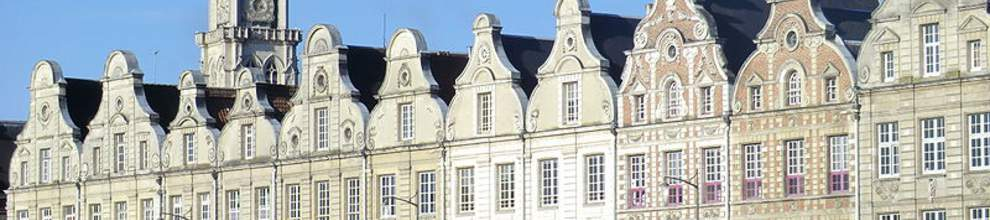
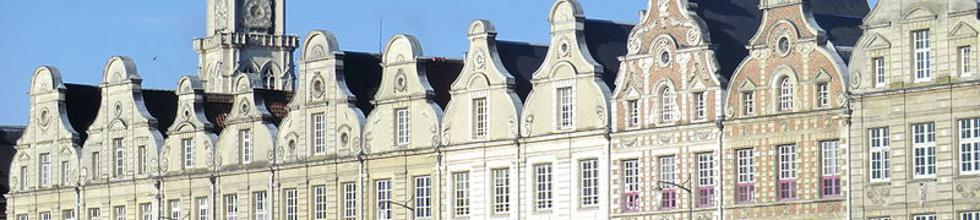
added accueil

diff --git a/view/style.css b/view/style.css
@@ -6,7 +6,7 @@ body {
     background:#04467e;
 }
 .mainWrapper{
-    width: 990px;
+    width: 980px;
     margin:auto;
     background:#f7f7f7;
     -moz-box-shadow: 1px 1px 4px 0px black;
@@ -34,8 +34,8 @@ nav li {
     margin:auto;
     padding:0;
 }
-#item1{background:#2797e8;}#item2{background:#f8d617;}#item3{background:#a4b819;}#item4, #s_item4 a{background:#ce7526;}{background:#ce7526;}#item5, #s_item5 a{background:#6f0006;}#item6, #s_item6 a{background:#955359;}
-#item1:hover{background:#5bade7;}#item2:hover{background:#f8de4d;}#item3:hover{background:#bfd241;}#item4:hover, #s_item4 a:hover{background:#e8964d;}#item5:hover, #s_item5 a:hover{background:#a90008;}#item6:hover, #s_item6 a:hover{background:#b0757a;}
+#item0{background:#2e115a;}#item1{background:#2797e8;}#item2{background:#f8d617;}#item3{background:#a4b819;}#item4, #s_item4 a{background:#ce7526;}{background:#ce7526;}#item5, #s_item5 a{background:#6f0006;}#item6, #s_item6 a{background:#955359;}
+#item0:hover{background:#503080;}#item1:hover{background:#5bade7;}#item2:hover{background:#f8de4d;}#item3:hover{background:#bfd241;}#item4:hover, #s_item4 a:hover{background:#e8964d;}#item5:hover, #s_item5 a:hover{background:#a90008;}#item6:hover, #s_item6 a:hover{background:#b0757a;}
 /*#item1:active{background:#5bade7;}#item2:active{background:#f8de4d;}#item3:active{background:#bfd241;}#item4:active{background:#e8964d;}#item5:active{background:#a90008;}#item6:active{background:#b0757a;}*/
 /*  Couleur des items du menu, hover ou non, actif ou non */
 .last_item{
@@ -47,13 +47,14 @@ nav li ul {
 }
 nav li a {
     display:block;
-    width:155px;
+    width:130px;
     color:white;
     text-decoration:none;
     padding:5px;
     text-shadow:1px 1px 1px black;
     font-weight: bold;
     font-style:normal;
+    font-size:15px;
 }
 nav ul li ul {
     display:none;
@@ -71,7 +72,7 @@ nav li:hover ul li {
 /*  -- BANNIERE --  */
 /*  --------------  */
 #banniere{overflow:hidden;height:220px;position:relative;top:-16px;}
-#banniere img{width:990px;height:220px;}
+#banniere img{width:980px;height:220px;}
 #banniere ul{display: table;width:2700px;padding-left:0%;
 -webkit-animation:siteslide 45s ease 0s infinite;
 -moz-animation:siteslide 45s ease 0s infinite;
@@ -79,30 +80,30 @@ nav li:hover ul li {
 -o-animation:siteslide 45s ease 0s infinite;
 animation:siteslide 45s ease 0s infinite;
 }
-#banniere ul li{display:table-cell;width:990px;height:220px;list-style:none;}
+#banniere ul li{display:table-cell;width:980px;height:220px;list-style:none;}
 @-webkit-keyframes siteslide{
 0%,23%{margin-left:0px;} 
-30%,53% {margin-left:-990px;}
-60%,83% {margin-left:-1980px;}  
-100%{margin-left:-2970px;}
+30%,53% {margin-left:-980px;}
+60%,83% {margin-left:-1960px;}  
+100%{margin-left:-2940px;}
 }
 @-ms-keyframes siteslide{
 0%,23%{margin-left:0px;} 
-30%,53% {margin-left:-990px;}
-60%,83% {margin-left:-1980px;}  
-100%{margin-left:-2970px;}
+30%,53% {margin-left:-980px;}
+60%,83% {margin-left:-1960px;}  
+100%{margin-left:-2940px;}
 }
 @-o-keyframes siteslide{
 0%,23%{margin-left:0px;} 
-30%,53% {margin-left:-990px;}
-60%,83% {margin-left:-1980px;}  
-100%{margin-left:-2970px;}
+30%,53% {margin-left:-980px;}
+60%,83% {margin-left:-1960px;}  
+100%{margin-left:-2940px;}
 }
 @keyframes siteslide{
 0%,23%{margin-left:0px;} 
-30%,53% {margin-left:-990px;}
-60%,83% {margin-left:-1980px;}  
-100%{margin-left:-2970px;}
+30%,53% {margin-left:-980px;}
+60%,83% {margin-left:-1960px;}  
+100%{margin-left:-2940px;}
 }
 /*  --------------  */
 /*  --- CONTENU --  */
@@ -146,6 +147,5 @@ animation:siteslide 45s ease 0s infinite;
     position:relative;
     bottom:15px;
 }
-
 
 

diff --git a/view/includes/header.php b/view/includes/header.php
@@ -18,6 +18,7 @@
 		</div>
 		<nav>
 			<ul>
+				<li><a id="item0" href="index.php?section=accueil">Accueil</a></li>
 				<li><a id="item1" href="index.php?section=association">L'association</a></li>
 				<li><a id="item2" href="index.php?section=actualites">Actualités</a></li>
 				<li><a id="item3" href="index.php?section=liensutiles">Liens utiles</a></li>

diff --git a/index.php b/index.php
@@ -16,6 +16,10 @@ elseif ($_GET['section'] == 'inscription')
 {
 	include_once 'controller/inscription.php';
 }
+elseif ($_GET['section'] == 'accueil')
+{
+	include_once 'controller/accueil.php';
+}
 elseif ($_GET['section'] == 'association')
 {
 	include_once 'controller/association.php';

diff --git a/controller/association.php b/controller/association.php
@@ -1,3 +1,3 @@
 <?php
-include_once 'view/association/association.php';
+include_once '/view/association/association.php';
 ?>

diff --git a/controller/actualites.php b/controller/actualites.php
@@ -1,3 +1,3 @@
 <?php
-include_once 'view/actualites/actualites.php';
+include_once '/view/actualites/actualites.php';
 ?>

diff --git a/view/accueil/accueil.php b/view/accueil/accueil.php
@@ -1,0 +1,3 @@
+<?php include_once '/view/includes/header.php'; ?>	
+	</body>
+</html>

diff --git a/controller/accueil.php b/controller/accueil.php
@@ -1,0 +1,3 @@
+<?php
+include_once '/view/accueil/accueil.php';
+?>
